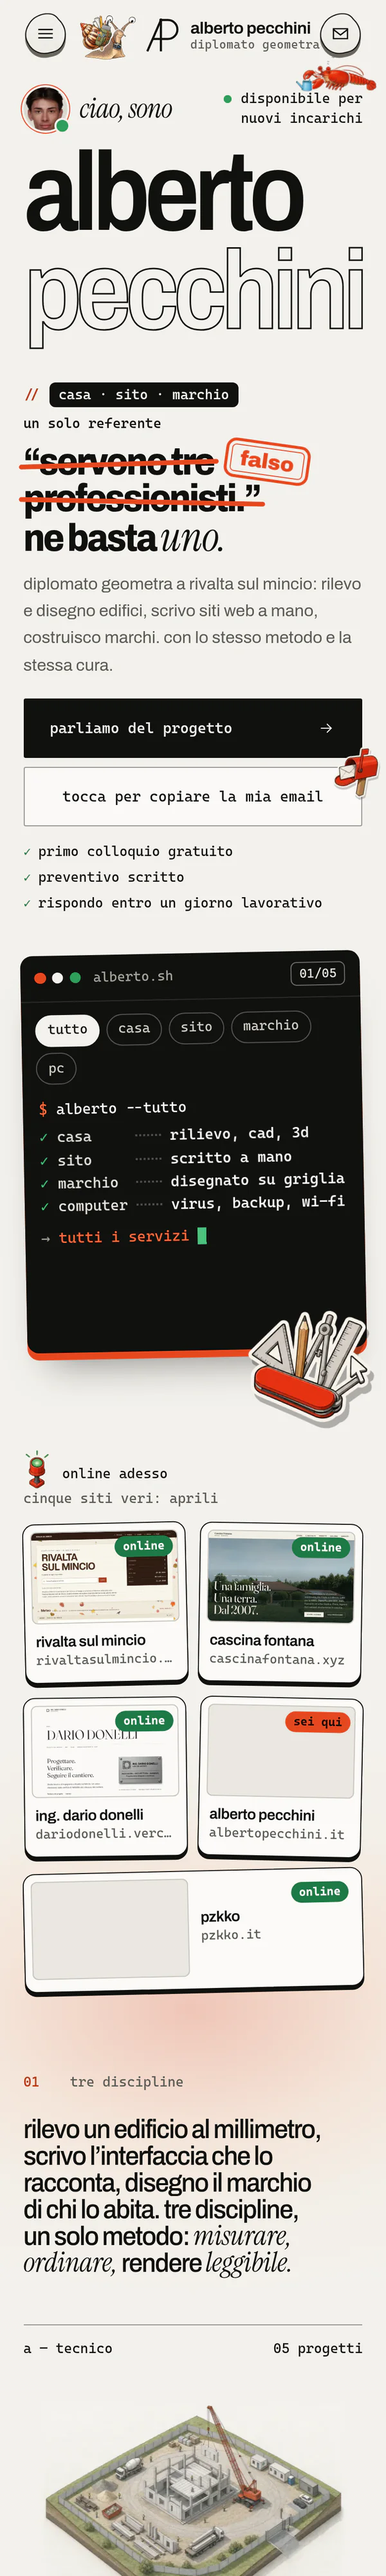
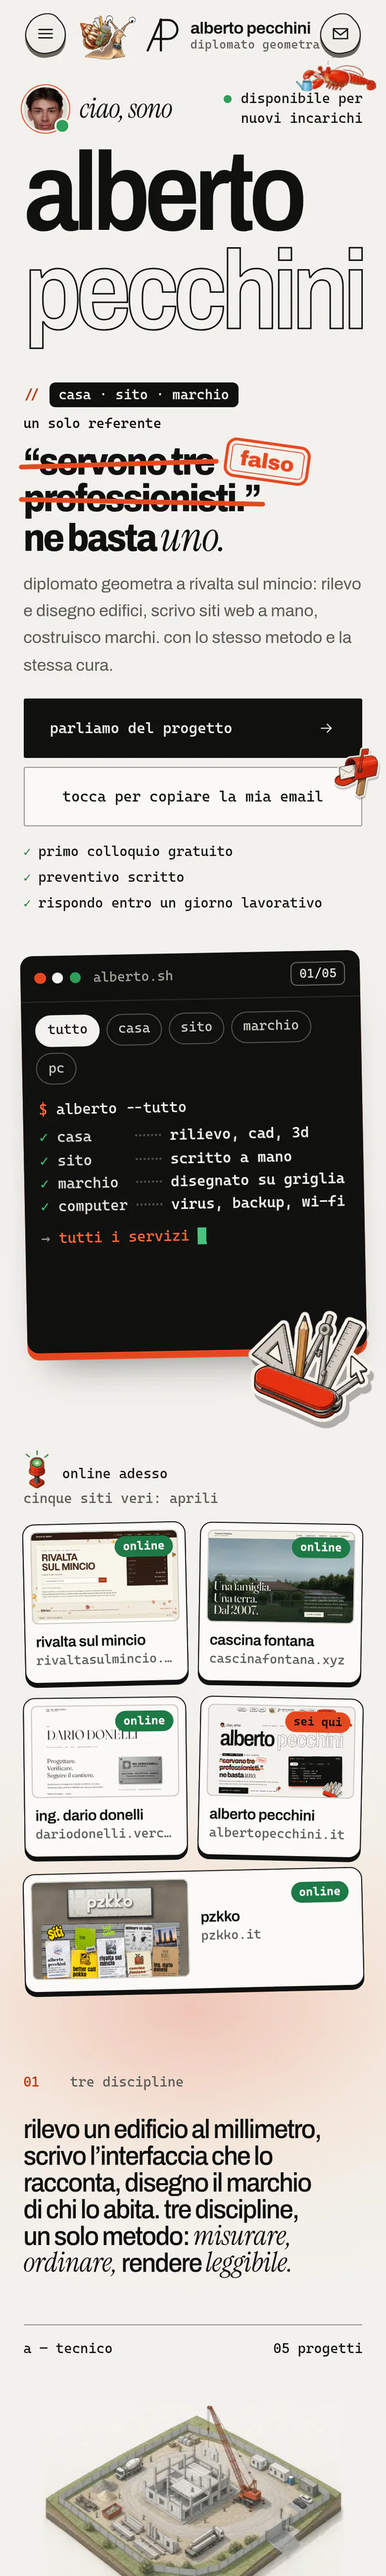
Catture aggiornate: Alberto Pecchini
Rifatte da .github/workflows/catture.yml: il sito online era cambiato.

Changed region(s): [[0.06, 0.7188, 0.51, 0.7812], [0.75, 0.6562, 0.9, 0.7188], [0.57, 0.6562, 0.72, 0.7188]]

diff --git a/albertopecchini.it/src/data/catture.js b/albertopecchini.it/src/data/catture.js
@@ -4,15 +4,15 @@
 // la copia vecchia dopo un aggiornamento.
 
 export const catture = {
-  'ap-desktop-tall.webp': { w: 1200, h: 2833, v: '113a4999' },
+  'ap-desktop-tall.webp': { w: 1200, h: 2833, v: 'd4c6e647' },
   'ap-desktop.webp': { w: 1200, h: 750, v: 'e6b83923' },
-  'ap-iphone-01.webp': { w: 804, h: 4084, v: '2378ec2a' },
+  'ap-iphone-01.webp': { w: 804, h: 4084, v: '13d0bfff' },
   'ap-iphone-02.webp': { w: 804, h: 4084, v: '7353bb5c' },
   'ap-iphone-03.webp': { w: 804, h: 4084, v: '66da0693' },
   'ap-iphone-04.webp': { w: 804, h: 4084, v: 'b642344e' },
   'ap-iphone-05.webp': { w: 804, h: 4084, v: 'e0e4fa9f' },
   'ap-iphone-06.webp': { w: 804, h: 4080, v: 'b13c3a8b' },
-  'ap-mobile-tall.webp': { w: 600, h: 4000, v: 'be7d7e7f' },
+  'ap-mobile-tall.webp': { w: 600, h: 4000, v: '2f7a4f3b' },
   'ap-mobile.webp': { w: 600, h: 1298, v: '6c18accf' },
   'ap-tablet.webp': { w: 720, h: 1036, v: 'c6829e03' },
   'cascina-contatti-mobile.webp': { w: 600, h: 1298, v: '990e9109' },
